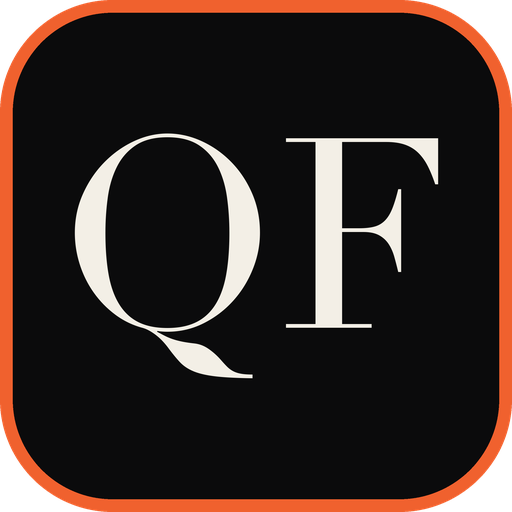
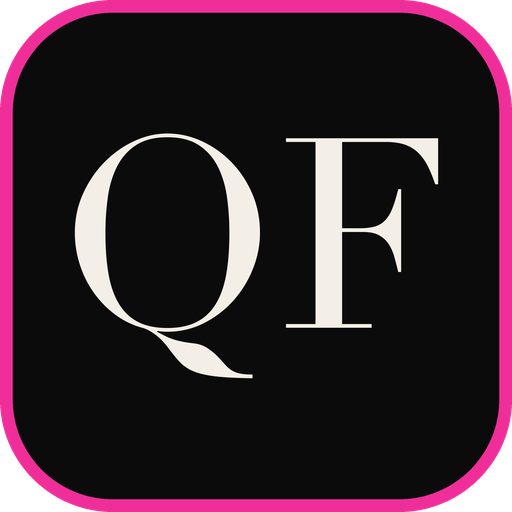
theme: switch accent to Fears Fuchsia (#f72c9c)
Sampled from Quentin's own editorial branding (Glamour cover magenta, Sheen Talk Live titles). Swaps the single --accent token plus both hard-coded .ph and password-gate glows, and recolors the favicon (SVG, ICO, and PNG app icons) and the README badge. No markup or layout changes.

Changed region(s): [[0.0, 0.0, 1.0, 1.0]]

diff --git a/assets/css/style.css b/assets/css/style.css
@@ -19,9 +19,9 @@
   /* Lines & accent */
   --line:      rgba(243, 239, 230, 0.13);
   --line-2:    rgba(243, 239, 230, 0.28);
-  --accent:      #f0612e;   /* warm editorial orange — the single accent */
-  --accent-deep: #b8481f;
-  --accent-soft: rgba(240, 97, 46, 0.14);
+  --accent:      #f72c9c;   /* editorial fuchsia, sampled from his Glamour + Sheen branding: the single accent */
+  --accent-deep: #c4166f;
+  --accent-soft: rgba(247, 44, 156, 0.14);
 
   /* Type */
   --serif: "Didot", "Bodoni MT", "Playfair Display", "Hoefler Text", "Times New Roman", Georgia, serif;
@@ -207,7 +207,7 @@ button { font: inherit; cursor: pointer; }
 .ph {
   position: relative; margin: 0; overflow: hidden;
   background:
-    radial-gradient(120% 90% at 20% 10%, rgba(240,97,46,0.13), transparent 55%),
+    radial-gradient(120% 90% at 20% 10%, rgba(247,44,156,0.13), transparent 55%),
     linear-gradient(155deg, #26242a 0%, #17161a 48%, #0e0e11 100%);
   border: 1px solid var(--line);
   display: flex; align-items: flex-end;
@@ -573,7 +573,7 @@ button { font: inherit; cursor: pointer; }
 .locked .site-head, .locked main, .locked .site-foot { visibility: hidden; }
 .gate {
   position: fixed; inset: 0; z-index: 9999;
-  background: radial-gradient(120% 90% at 30% 8%, rgba(240,97,46,0.12), transparent 55%), var(--bg);
+  background: radial-gradient(120% 90% at 30% 8%, rgba(247,44,156,0.12), transparent 55%), var(--bg);
   display: flex; align-items: center; justify-content: center; padding: var(--gut);
 }
 .gate__card { max-width: 400px; width: 100%; text-align: center; }

diff --git a/README.md b/README.md
@@ -1,7 +1,7 @@
 # quentinfears.com — repositioned site
 
 ![Stack: HTML · CSS · JS](https://img.shields.io/badge/stack-HTML%20%C2%B7%20CSS%20%C2%B7%20JS-0b0b0c?style=flat-square&labelColor=0b0b0c)
-![Build: none](https://img.shields.io/badge/build-none-f0612e?style=flat-square&labelColor=0b0b0c)
+![Build: none](https://img.shields.io/badge/build-none-f72c9c?style=flat-square&labelColor=0b0b0c)
 ![Deploy: any static host](https://img.shields.io/badge/deploy-any%20static%20host-0b0b0c?style=flat-square&labelColor=0b0b0c)
 ![Dependencies: zero](https://img.shields.io/badge/dependencies-0-0b0b0c?style=flat-square&labelColor=0b0b0c)
 